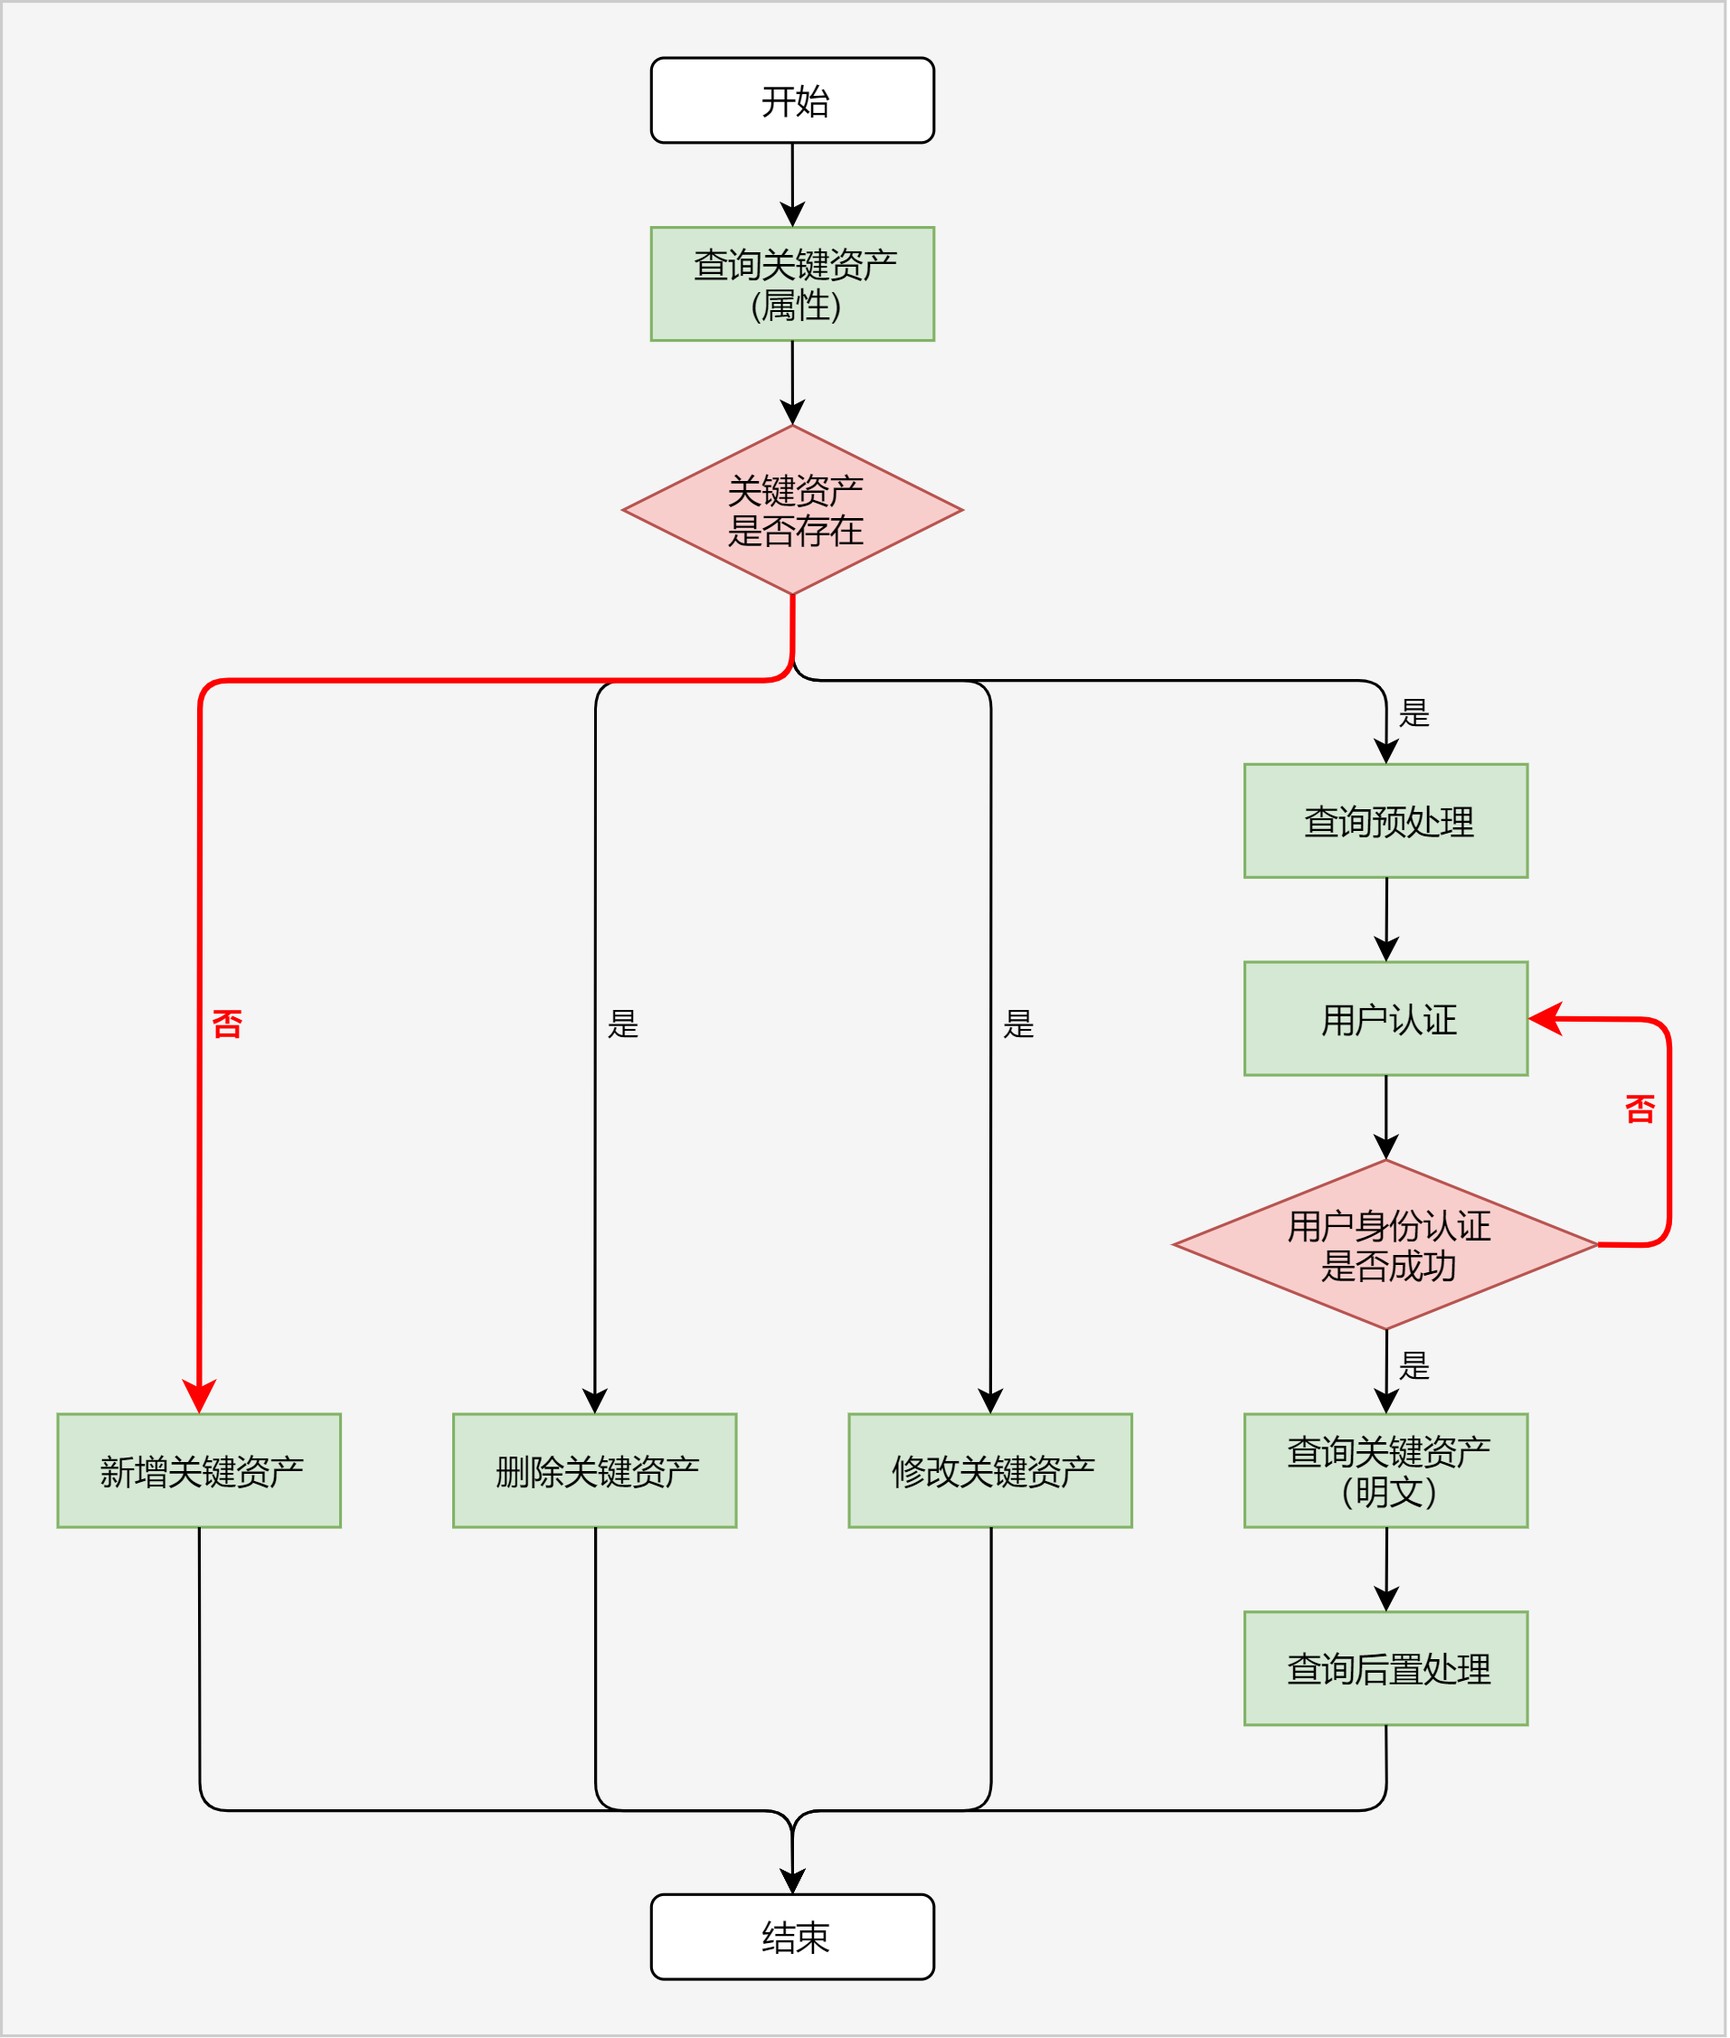
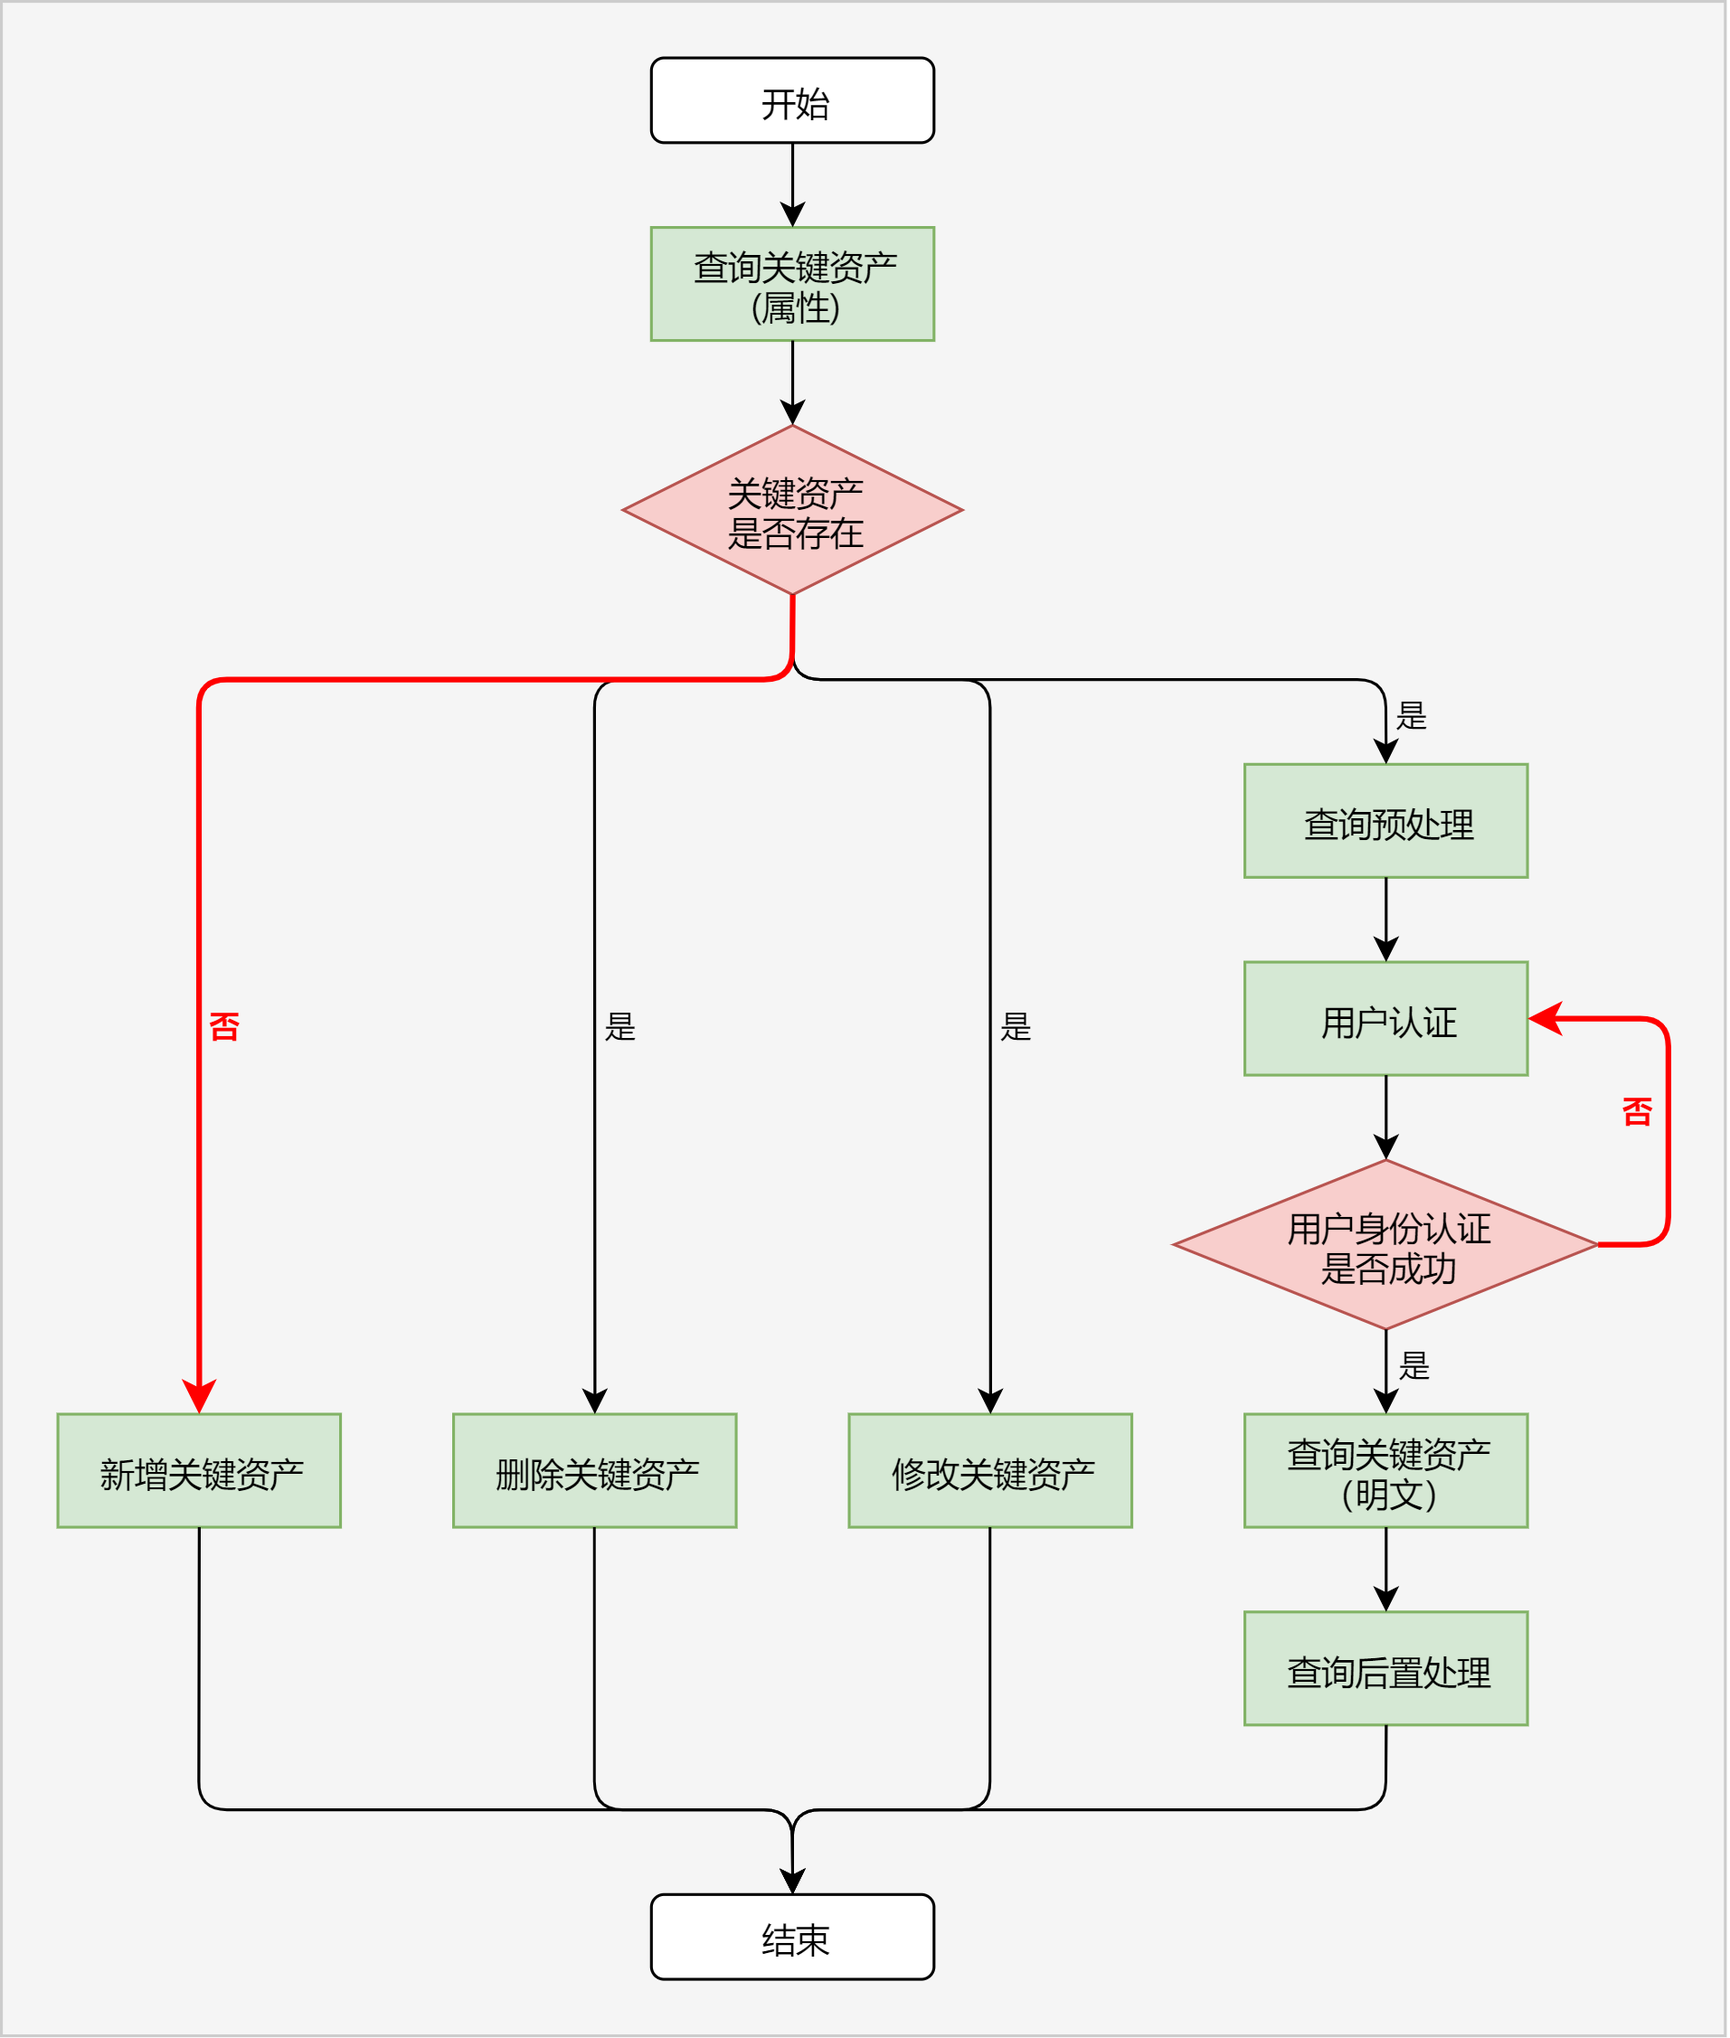
update font in pictures
Match-id-3c187de0a5eaddea7ceda55c3ce866688d3f7ce4

diff --git a/docs/reference/apis/js-apis-asset.md b/docs/reference/apis/js-apis-asset.md
@@ -271,7 +271,7 @@ try {
 
 query(query: AssetMap): Promise<Array<AssetMap>>
 
-查询一条或多条符合匹配条件的关键资产。若查询需要用户认证的关键资产，则需要在本函数前调用[asset.preQuery](#asset.preQuery)，在本函数后调用[asset.postQuery](#asset.postQuery)，开发步骤请参考[开发指导](../../security/asset-js-guidelines.md#查询需要用户认证的关键资产)。使用Promise回调异步返回结果。
+查询一条或多条符合条件的关键资产。若查询需要用户认证的关键资产，则需要在本函数前调用[asset.preQuery](#asset.preQuery)，在本函数后调用[asset.postQuery](#asset.postQuery)，开发步骤请参考[开发指导](../../security/asset-js-query-auth.md)。使用Promise回调异步返回结果。
 
 **系统能力：** SystemCapability.Security.Asset
 
@@ -419,8 +419,14 @@ type AssetMap = Map<Tag, Value>
 | AUTH_TOKEN                | 类型为Uint8Array，长度为148字节                              | 用户认证通过的授权令牌                                           |
 | SYNC_TYPE                 | 类型为number，取值范围详见[SyncType](#SyncType)  | 关键资产支持的同步类型                                       |
 | IS_PERSISTENT             | 类型为bool                                                   | 在应用卸载时是否需要保留关键资产<br>**需要权限：** ohos.permission.STORE_PERSISTENT_DATA<br/>**备注：** 仅在调用[asset.add](#asset.add)函数并传入该属性时需要校验权限 |
-| DATA_LABEL_CRITICAL_1<br>DATA_LABEL_CRITICAL_2<br>DATA_LABEL_CRITICAL_3<br>DATA_LABEL_CRITICAL_4     | 类型为Uint8Array，长度为1-512字节                            | 关键资产附属信息，内容由业务自定义且**有完整性保护**             |
-| DATA_LABEL_NORMAL_1<br>DATA_LABEL_NORMAL_2<br>DATA_LABEL_NORMAL_3<br>DATA_LABEL_NORMAL_4       | 类型为Uint8Array，长度为1-512字节                            | 关键资产附属信息，内容由业务自定义且**无完整性保护**             |
+| DATA_LABEL_CRITICAL_1     | 类型为Uint8Array，长度为1-512字节                            | 关键资产附属信息，内容由业务自定义且**有完整性保护**             |
+| DATA_LABEL_CRITICAL_2 | 类型为Uint8Array，长度为1-512字节 | 关键资产附属信息，内容由业务自定义且**有完整性保护** |
+| DATA_LABEL_CRITICAL_3 | 类型为Uint8Array，长度为1-512字节 | 关键资产附属信息，内容由业务自定义且**有完整性保护** |
+| DATA_LABEL_CRITICAL_4 | 类型为Uint8Array，长度为1-512字节                            | 关键资产附属信息，内容由业务自定义且**有完整性保护** |
+| DATA_LABEL_NORMAL_1       | 类型为Uint8Array，长度为1-512字节                            | 关键资产附属信息，内容由业务自定义且**无完整性保护**             |
+| DATA_LABEL_NORMAL_2 | 类型为Uint8Array，长度为1-512字节 | 关键资产附属信息，内容由业务自定义且**无完整性保护** |
+| DATA_LABEL_NORMAL_3 | 类型为Uint8Array，长度为1-512字节 | 关键资产附属信息，内容由业务自定义且**无完整性保护** |
+| DATA_LABEL_NORMAL_4 | 类型为Uint8Array，长度为1-512字节                            | 关键资产附属信息，内容由业务自定义且**无完整性保护** |
 | RETURN_TYPE               | 类型为number，取值范围详见[ReturnType](#ReturnType) | 关键资产查询返回的结果类型                                         |
 | RETURN_LIMIT              | 类型为number                                                 | 关键资产查询返回的结果数量                                         |
 | RETURN_OFFSET             | 类型为number，取值范围：1-65536                              | 关键资产查询返回的结果偏移量<br>**说明：** 用于分批查询场景，指定从第几个开始返回                                 |

diff --git a/docs/security/asset-js-add.md b/docs/security/asset-js-add.md
@@ -10,12 +10,12 @@
 
 | 属性名称（Tag）        | 属性内容（Value）                                             | 是否必选  | 说明                                                         |
 | --------------------- | ------------------------------------------------------------ | -------- | ------------------------------------------------------------ |
-| SECRET                | 类型为Uint8Array，长度为1-1024字节                           | 必选     | 关键资产明文                                                 |
-| ALIAS                 | 类型为Uint8Array，长度为1-256字节                            | 必选     | 关键资产别名，每条关键资产的唯一索引                         |
-| ACCESSIBILITY         | 类型为number，取值范围详见[Accessibility](../reference/apis/js-apis-asset.md#Accessibility) | 可选     | 基于锁屏状态的访问控制                                                 |
-| REQUIRE_PASSWORD_SET  | 类型为bool                                                   | 可选     | 是否仅在设置了锁屏密码的情况下，可访问关键资产                 |
-| AUTH_TYPE             | 类型为number，取值范围详见[AuthType](../reference/apis/js-apis-asset.md#AuthType) | 可选     | 访问关键资产所需的用户认证类型                               |
-| SYNC_TYPE             | 类型为number，取值范围详见[SyncType](../reference/apis/js-apis-asset.md#SyncType) | 可选     | 关键资产支持的同步类型                                       |
+| SECRET                | 类型为Uint8Array，长度为1-1024字节                           | 必选     | 关键资产明文                                              |
+| ALIAS                 | 类型为Uint8Array，长度为1-256字节                            | 必选     | 关键资产别名，每条关键资产的唯一索引                        |
+| ACCESSIBILITY         | 类型为number，取值范围详见[Accessibility](../reference/apis/js-apis-asset.md#Accessibility) | 可选     | 基于锁屏状态的访问控制      |
+| REQUIRE_PASSWORD_SET  | 类型为bool                                                   | 可选     | 是否仅在设置了锁屏密码的情况下，可访问关键资产              |
+| AUTH_TYPE             | 类型为number，取值范围详见[AuthType](../reference/apis/js-apis-asset.md#AuthType) | 可选     | 访问关键资产所需的用户认证类型         |
+| SYNC_TYPE             | 类型为number，取值范围详见[SyncType](../reference/apis/js-apis-asset.md#SyncType) | 可选     | 关键资产支持的同步类型                |
 | IS_PERSISTENT         | 类型为bool                                                   | 可选     | 在应用卸载时是否需要保留关键资产<br>**需要权限：** ohos.permission.STORE_PERSISTENT_DATA |
 | DATA_LABEL_CRITICAL_1 | 类型为Uint8Array，长度为1-512字节                            | 可选     | 关键资产附属信息，内容由业务自定义且有完整性保护             |
 | DATA_LABEL_CRITICAL_2 | 类型为Uint8Array，长度为1-512字节                            | 可选     | 关键资产附属信息，内容由业务自定义且有完整性保护             |

diff --git a/docs/security/asset-js-query-auth.md b/docs/security/asset-js-query-auth.md
@@ -34,10 +34,10 @@ query参数列表
 
 | 属性名称（Tag）        | 属性内容（Value）                                             | 是否必选  | 说明                                             |
 | --------------------- | ------------------------------------------------------------ | -------- | ------------------------------------------------ |
-| ALIAS                 | 类型为Uint8Array，长度为1-256字节                            | 必选     | 关键资产别名，每条关键资产的唯一索引;            |
-| AUTH_CHALLENGE        | 类型为Uint8Array，长度为32字节                               | 必选     | 用户认证的挑战值                             |
-| AUTH_TOKEN            | 类型为Uint8Array，长度为148字节                              | 必选     | 用户认证通过的授权令牌                               |
-| RETURN_TYPE           | 类型为number，asset.ReturnType.ALL                           | 必选     | 关键资产查询返回的结果类型                             |
+| ALIAS                 | 类型为Uint8Array，长度为1-256字节                            | 必选     | 关键资产别名，每条关键资产的唯一索引;           |
+| AUTH_CHALLENGE        | 类型为Uint8Array，长度为32字节                               | 必选     | 用户认证的挑战值                              |
+| AUTH_TOKEN            | 类型为Uint8Array，长度为148字节                              | 必选     | 用户认证通过的授权令牌                         |
+| RETURN_TYPE           | 类型为number，asset.ReturnType.ALL                           | 必选     | 关键资产查询返回的结果类型                    |
 | ACCESSIBILITY         | 类型为number，取值范围详见[Accessibility](../reference/apis/js-apis-asset.md#Accessibility) | 可选     | 基于锁屏状态的访问控制                                     |
 | REQUIRE_PASSWORD_SET  | 类型为bool                                                   | 可选     | 是否仅在设置了锁屏密码的情况下，可访问关键资产     |
 | AUTH_TYPE             | 类型为number，取值范围详见[AuthType](../reference/apis/js-apis-asset.md#AuthType) | 可选     | 访问关键资产所需的用户认证类型                   |

diff --git a/docs/reference/errorcodes/errorcode-asset.md b/docs/reference/errorcodes/errorcode-asset.md
@@ -48,8 +48,8 @@ The Asset already exists.
 
 请先确认写入同别名的关键资产是否符合预期，如果不符合需排查别名是否错误，如果符合则可通过以下任意一种方式处理：
 
-1. 先调用asset.remove删除同别名的关键资产，再调用asset.add重新写入。
-2. 调用asset.add时，指定参数asset.Tag.CONFLICT_RESOLUTION的值为asset.ConflictResolution.OVERWRITE
+1. 先调用[asset.remove](../apis/js-apis-asset.md#asset.remove)删除同别名的关键资产，再调用[asset.add](../apis/js-apis-asset.md#asset.add)重新写入。
+2. 调用[asset.add](../apis/js-apis-asset.md#asset.add)时，指定参数asset.Tag.CONFLICT_RESOLUTION的值为asset.ConflictResolution.OVERWRITE
 
 ## 24000004 拒绝访问关键资产
 
@@ -234,11 +234,11 @@ The cache exceeds the limit.
 
 **可能原因**
 
-业务调用asset.preQuery预查询后，没有通过asset.postQuery释放资源。
+业务调用[asset.preQuery](../apis/js-apis-asset.md#asset.preQuery)预查询后，没有通过[asset.postQuery](../apis/js-apis-asset.md#asset.postQuery)释放资源。
 
 **处理步骤**
 
-业务调用asset.preQuery预查询后，通过asset.postQuery释放资源。
+业务调用[asset.preQuery](../apis/js-apis-asset.md#asset.preQuery)预查询后，通过[asset.postQuery](../apis/js-apis-asset.md#asset.postQuery)释放资源。
 
 ## 24000017 该子功能不支持
 

diff --git a/docs/security/asset-scenario1.md b/docs/security/asset-scenario1.md
@@ -10,7 +10,7 @@
 
 用户再次打开登录界面时，应用/浏览器可以从ASSET中查询用户密码，并将其自动填充到密码输入框，用户只需点击“登录”按钮即可完成账号登录，极大地提升了用户体验。
 
- <img src="../../figures/login.png" alt="login" style="zoom:40%;" />
+ <img src="../../figures/asset-scenario.png" alt="scenario" style="zoom:40%;" />
 
 ## 关键流程
 

diff --git a/docs/reference/native-apis/_asset_api.md b/docs/reference/native-apis/_asset_api.md
@@ -137,7 +137,7 @@ int32_t OH_Asset_PreQuery (const Asset_Attr * query, uint32_t queryCnt, Asset_Bl
 int32_t OH_Asset_Query (const Asset_Attr * query, uint32_t queryCnt, Asset_ResultSet * resultSet )
 ```
 **描述**
-查询一条或多条符合匹配条件的关键资产。
+查询一条或多条符合条件的关键资产。
 
 **起始版本：** 11
 

diff --git a/README_zh.md b/README_zh.md
@@ -6,7 +6,7 @@
 
 关键资产存储服务的架构如下图所示。
 
-![ASSET架构图](figures/asset_architecture.png)
+![ASSET架构图](figures/asset-architecture.png)
 
 应用接入关键资产存储服务后，可以进行如下操作：
 
